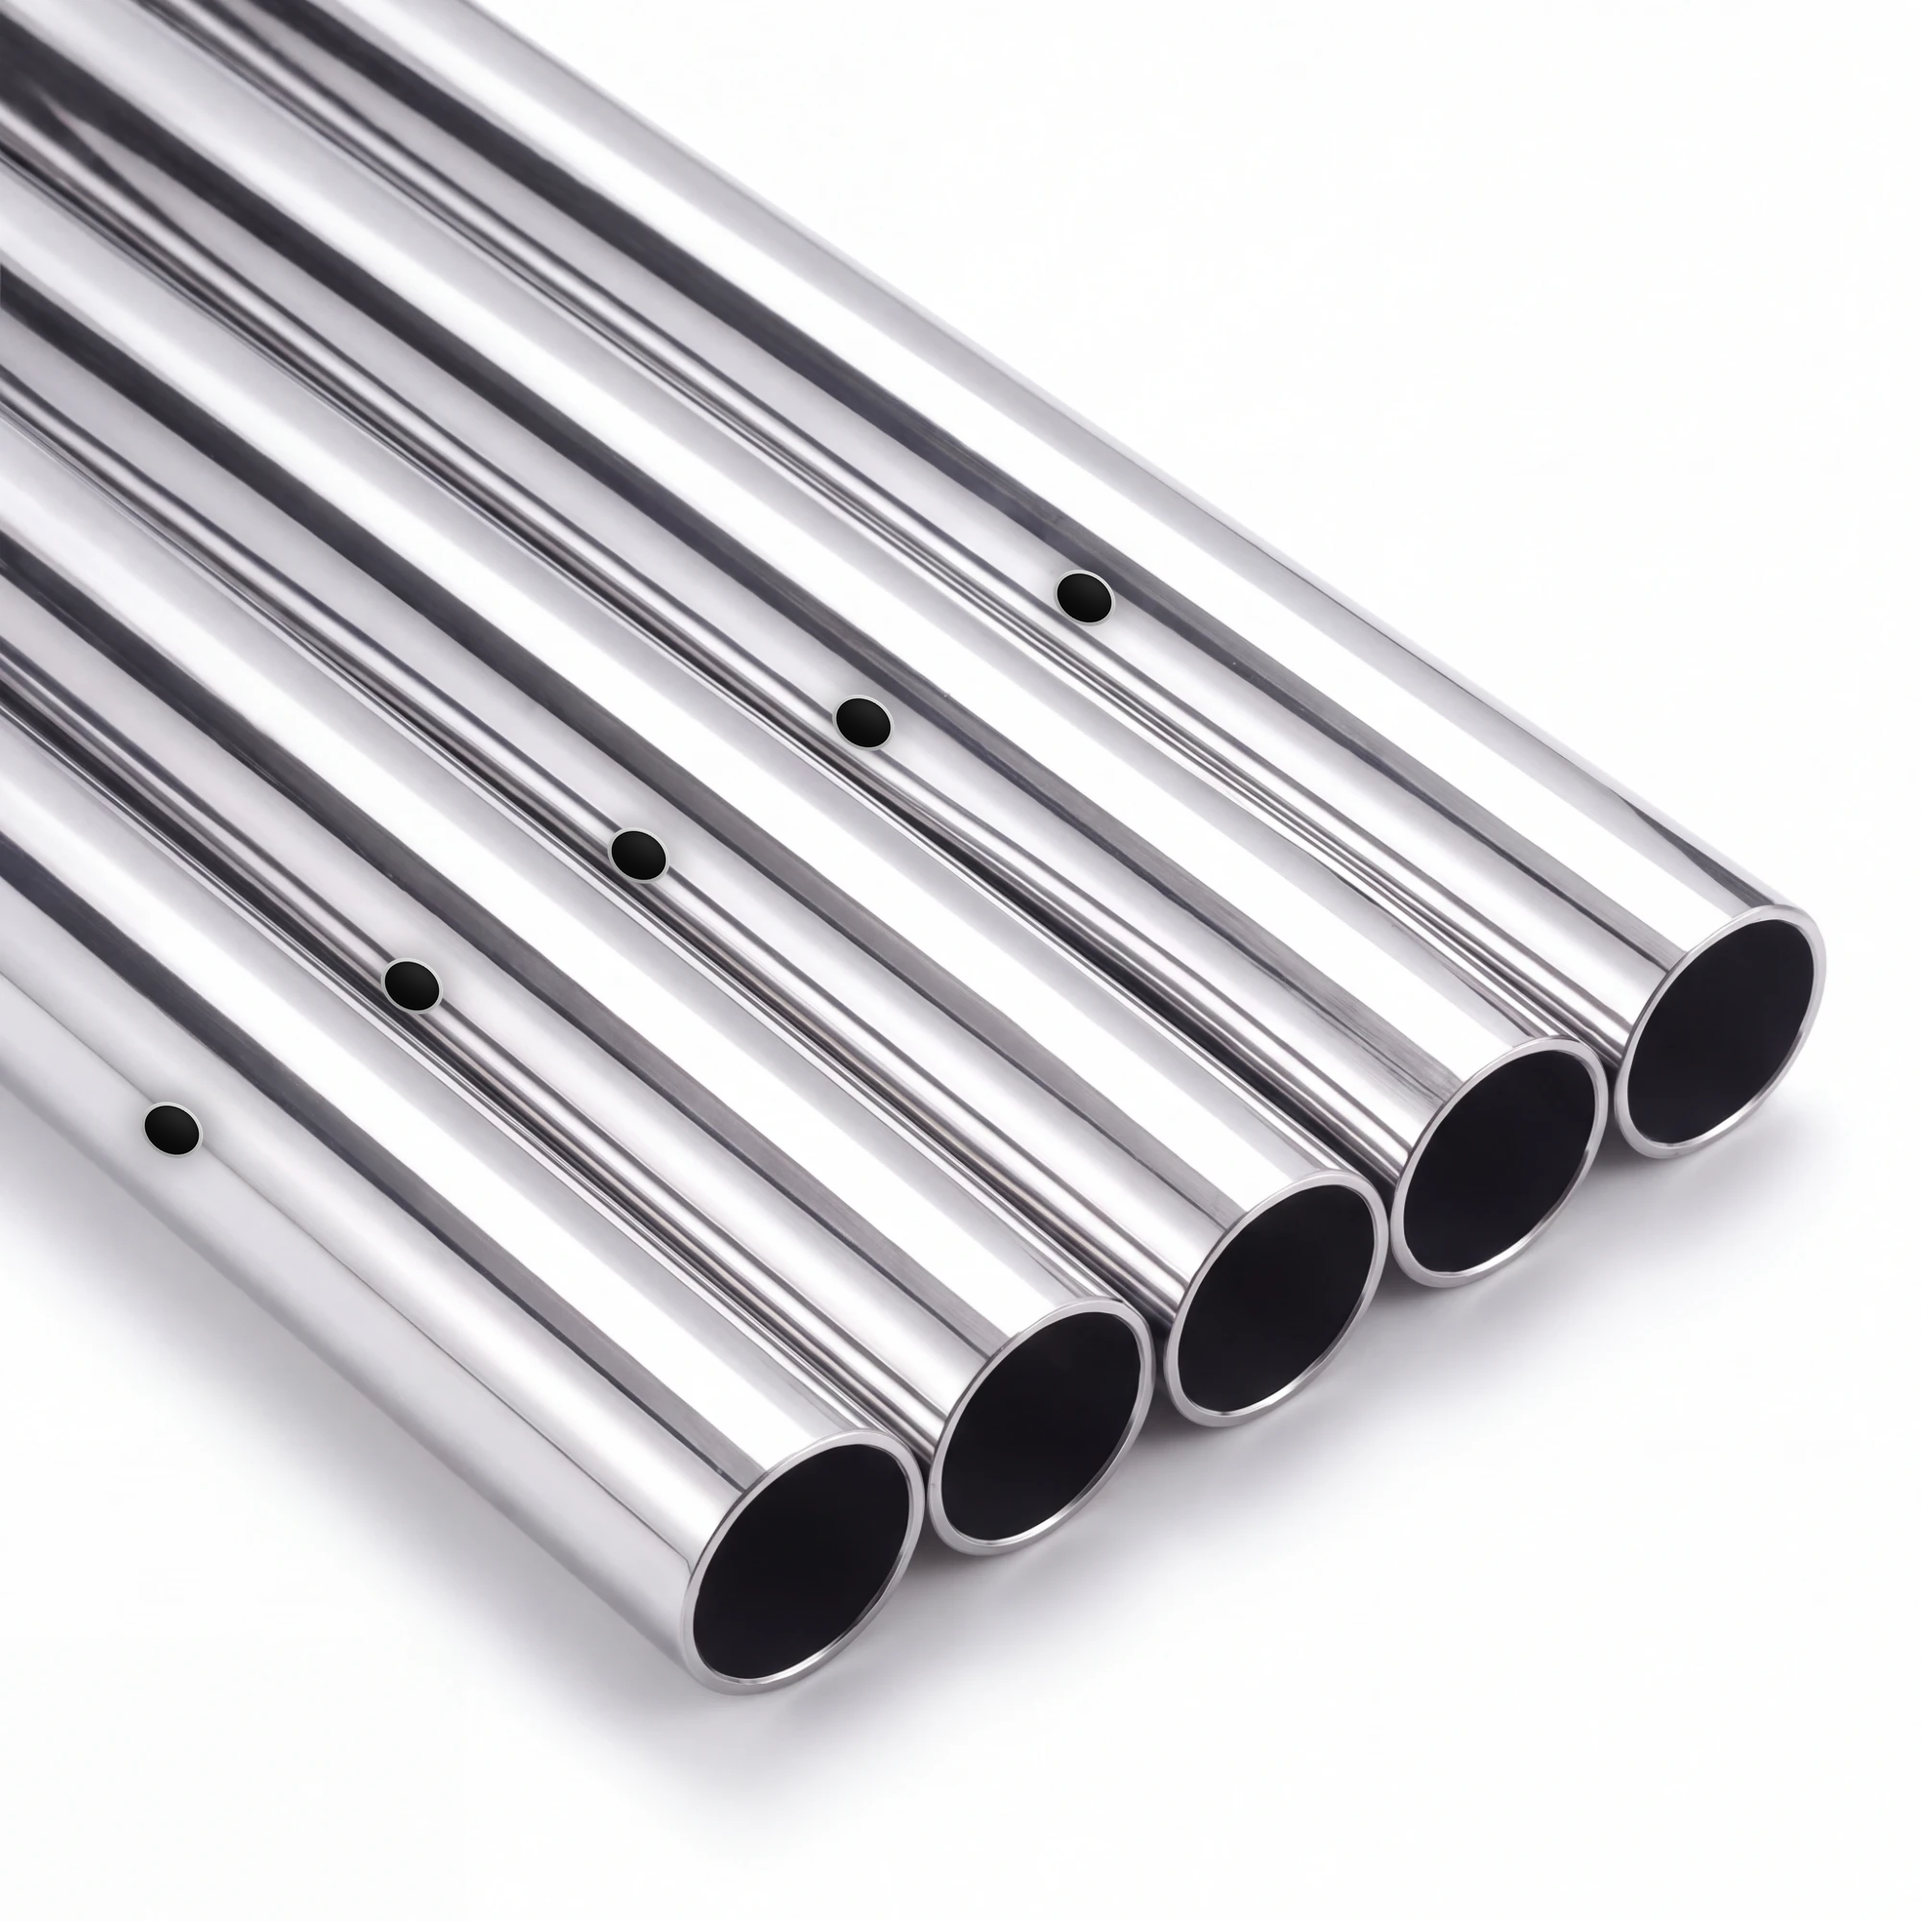
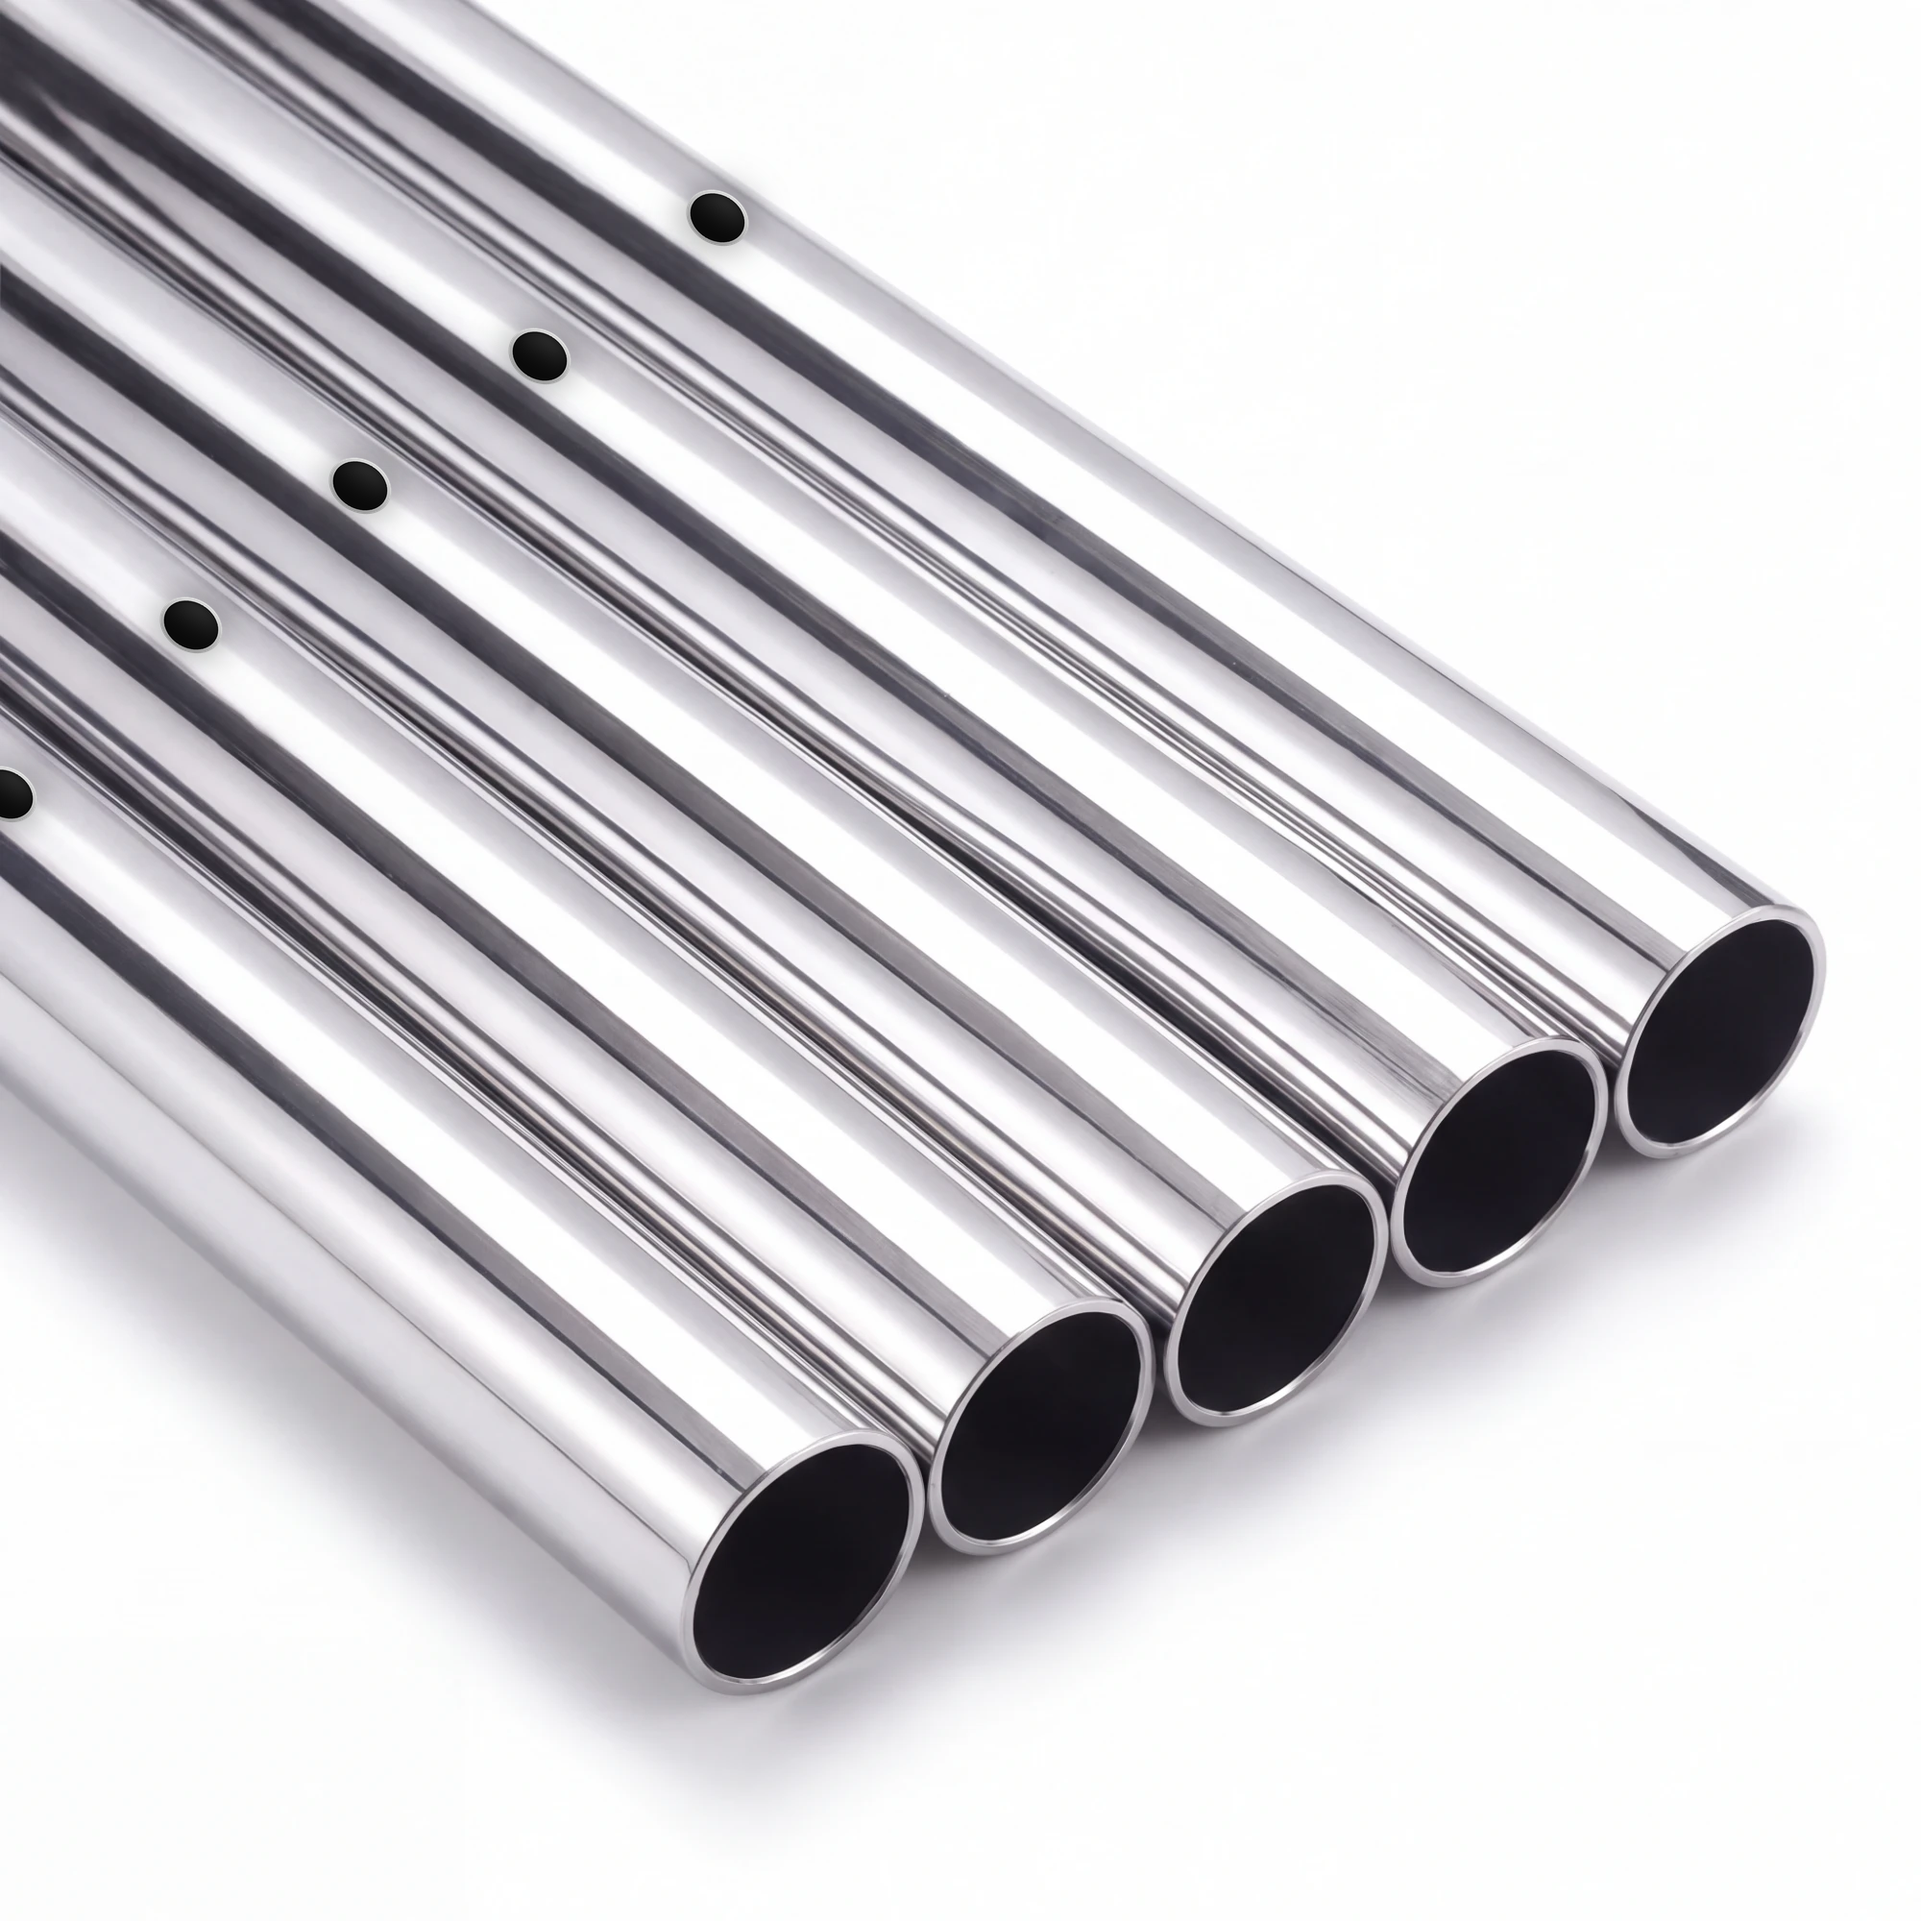
Hauptbild 75 cm: Lochpositionen nach Vorgabe-Markierung
Claude-Session: https://claude.ai/code/session_012tQbCrsZebroYo1iFwmt5y

diff --git a/ebay-bilder/build_hauptbild_loch.py b/ebay-bilder/build_hauptbild_loch.py
@@ -44,9 +44,9 @@ def hole(cx, cy):
     im = im.rotate(-ANG, resample=Image.BICUBIC, expand=False)
     layer.alpha_composite(im, (int(cx * SS - size / 2), int(cy * SS - size / 2)))
 
-for (ex, ey) in ENDS:
-    cx = ex + DIR[0] * DIST + 0.515 * PERP
-    cy = ey + DIR[1] * DIST - 0.857 * PERP
+# Positionen laut Vorgabe (Markierungen im Referenzbild, Koordinaten x1,6 auf 2000 px)
+HOLES = [(747, 227), (562, 371), (375, 506), (199, 651), (6, 827)]
+for (cx, cy) in HOLES:
     hole(cx, cy)
     sd.ellipse([cx - 44, cy - 38, cx + 44, cy + 38], fill=255)
 
